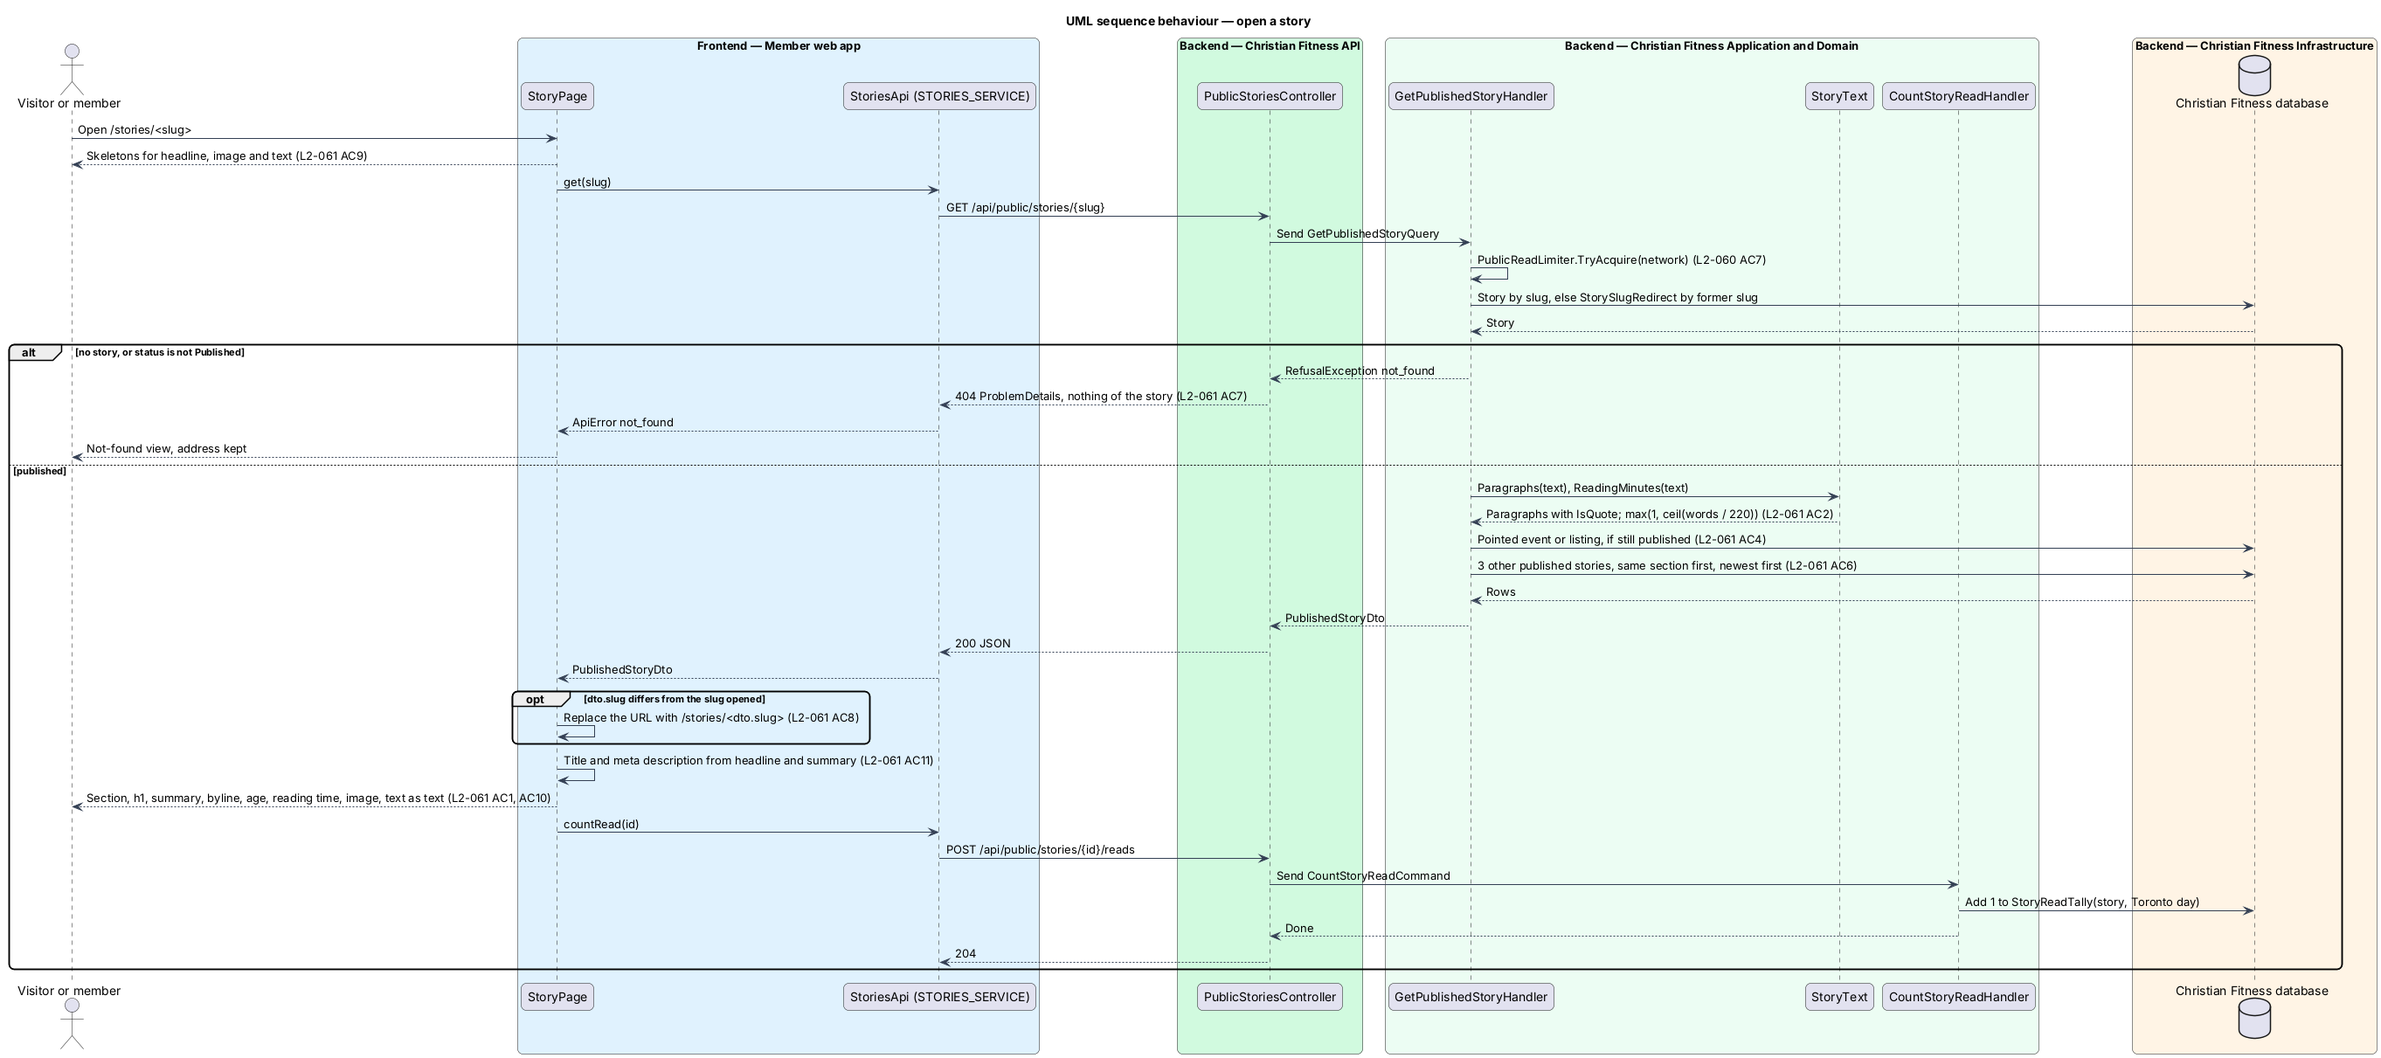
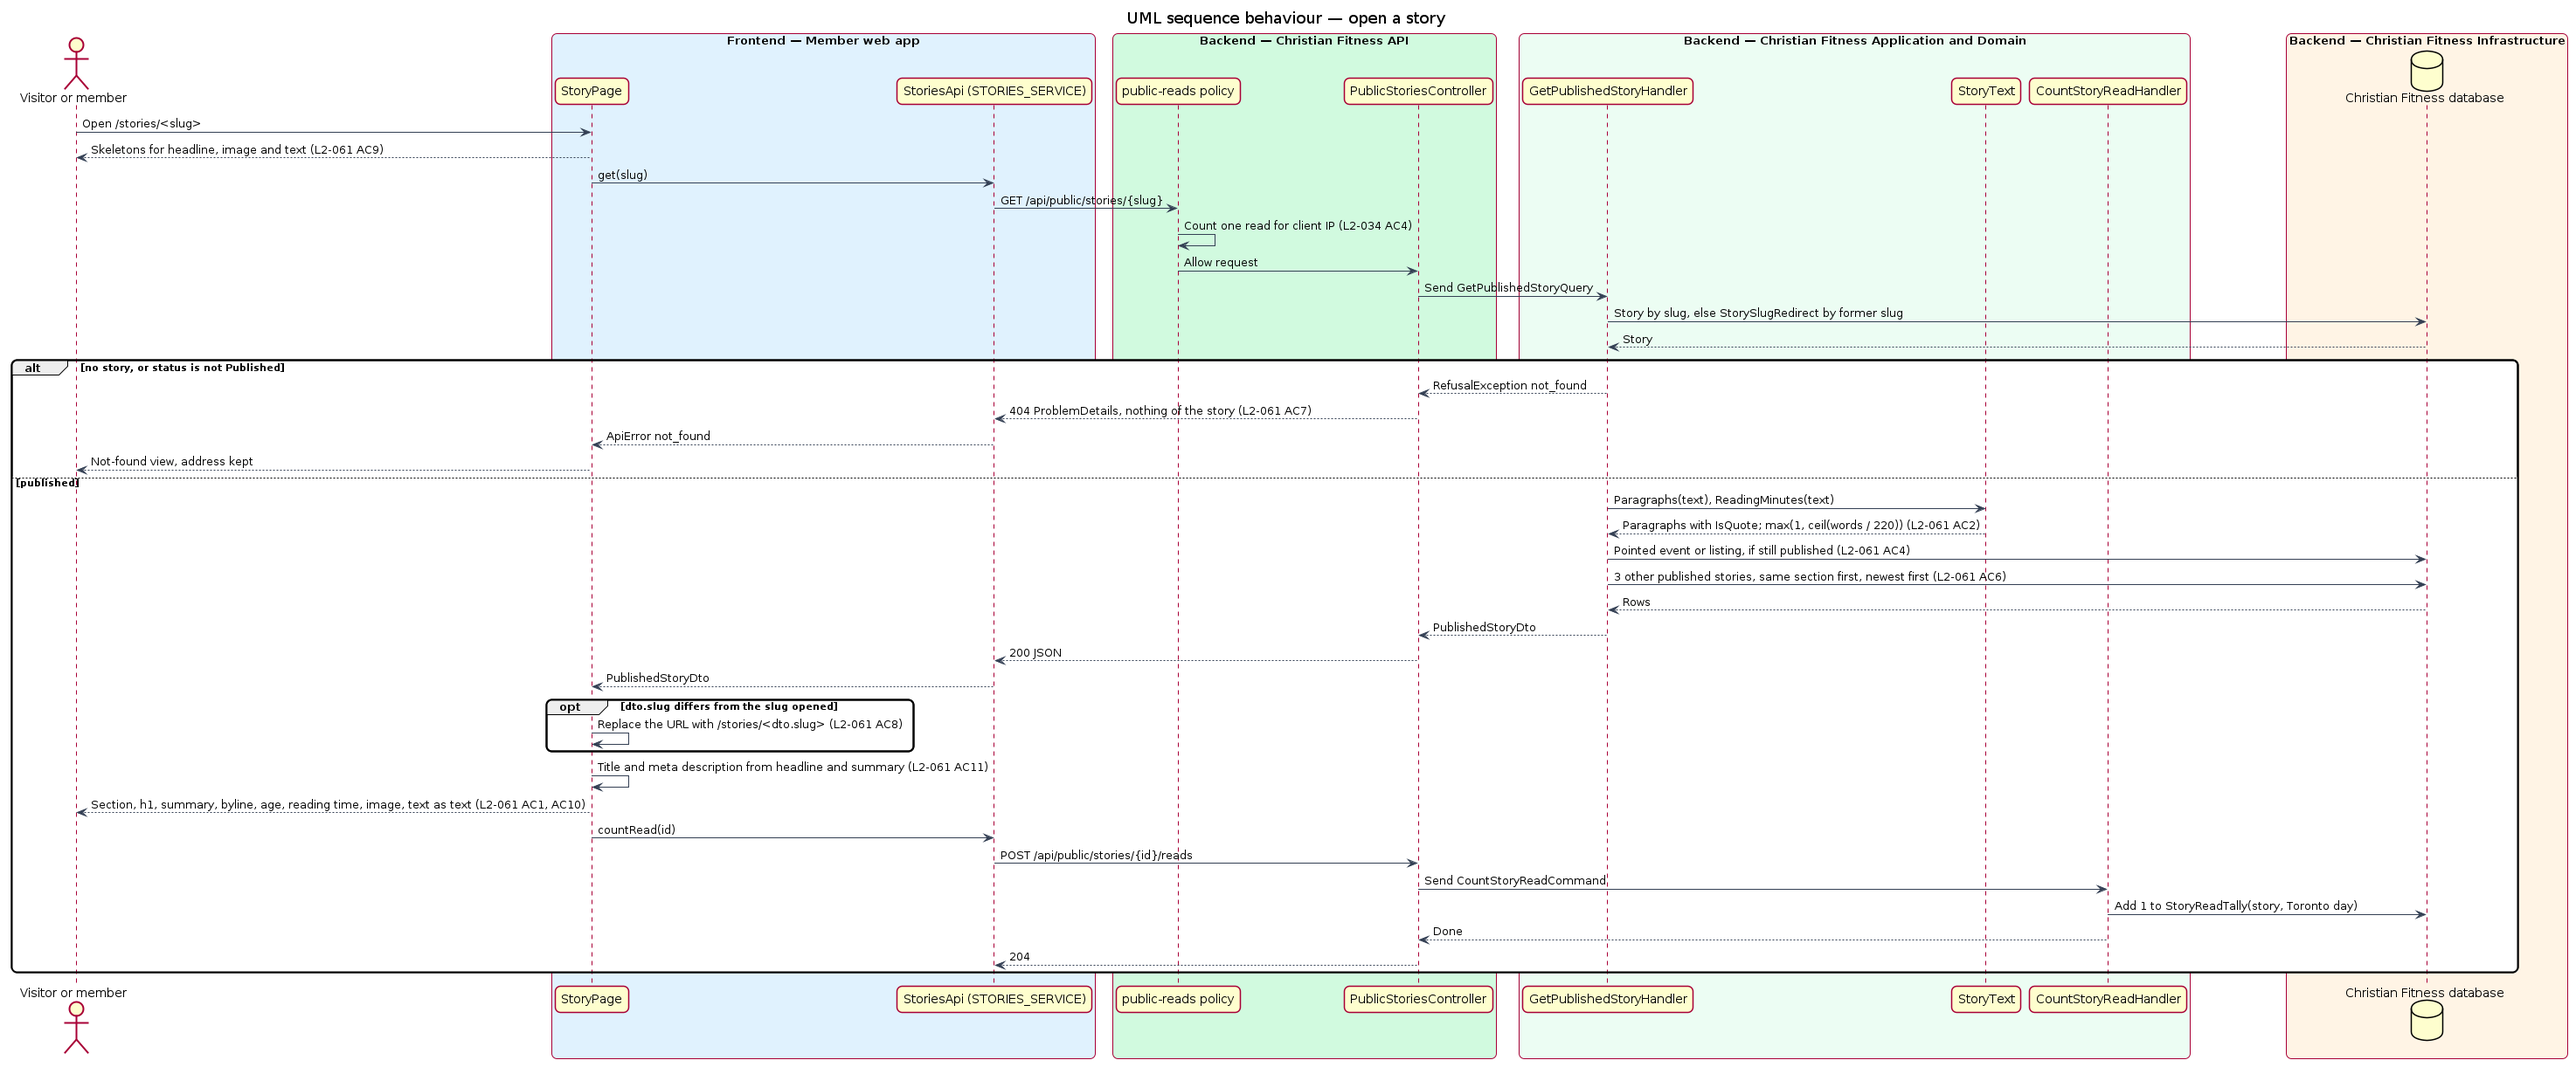
Align story and feed designs with public read decisions

diff --git a/docs/detailed-designs/news/publish-rss-feeds/README.md b/docs/detailed-designs/news/publish-rss-feeds/README.md
@@ -13,8 +13,9 @@ section, and the Subscribe screen lists them with each address to copy or open i
 - **conditional request** — a request that repeats the `ETag` or `Last-Modified` a feed gave, answered 304 with no body while nothing changed
 - **stories a week** — about how many stories a feed carries in a week, shown beside each feed
 
-Feeds are public reads: they need no account, set no cookie, and are rate limited per network
-(`L2-060` AC7). A feed carries nothing that identifies or reaches a member, and never a draft or a
+Feeds are public reads: they need no account, set no cookie, and are rate limited per client IP
+(`L2-034` AC4–5, `L2-060` AC7, ADR 0061). Pros has no section feed; its stories appear in All
+stories. A feed carries nothing that identifies or reaches a member, and never a draft or a
 removed story (`L2-060` AC6). The landing page and Subscribe name the feeds in the document head
 so a reader finds them from the site's address (`L2-060` AC3).
 
@@ -30,8 +31,15 @@ so a reader finds them from the site's address (`L2-060` AC3).
   section slug and the request's `If-None-Match` and `If-Modified-Since` values, and returns an
   **`RssFeedResult`**. It is excluded from `UseAntiforgeryTokens`, which today adds antiforgery
   cookies to every API response, so a feed sets no cookie (`L2-060` AC7).
-- **`GetStoryFeedHandler`** — takes a `PublicReadLimiter` lease (`news/read-story`); with none
-  left it refuses with 429 `rate_limited`. An unknown section is 404 `not_found`. It reads the 30
+- **`public-reads` policy** — the named ASP.NET Core policy limits covered requests per client IP
+  to 120 per minute in a six-segment sliding window. A refusal is 429 ProblemDetails with code
+  `too_many_requests` and `Retry-After` (`L2-034` AC4–5). Requests reaching the API count even
+  when the feed output cache serves them.
+- **Feed output cache** — keeps each rendered feed for 15 minutes. Publishing, unpublishing or
+  editing a published story evicts affected feeds by tag. Cached responses retain the conditional
+  request behaviour; `ETag` and `Last-Modified` are refreshed on the next render. A reader or
+  intermediary may retain a fresh response for up to 900 seconds after API eviction (ADR 0061).
+- **`GetStoryFeedHandler`** — an unknown section is 404 `not_found`. It reads the 30
   newest stories with `Status = Published` (of the section, or all), newest `PublishedAt` first
   (`L2-060` AC1, AC6). Its `ETag` is a strong hash of the items' ids and `EditedAt` values, so an
   edit, a new story or an unpublished one changes it; `Last-Modified` is the newest of those
@@ -82,21 +90,13 @@ so a reader finds them from the site's address (`L2-060` AC3).
 
 ### Open questions
 
-- **Routing the feed paths.** The member app and the API share an origin behind nginx, which
-  proxies only `/api/` today (ADR 0047). The paths `/feed` and `/<section>/feed` need their own
-  proxy rules, or `/events/feed` reaches the SPA's `events/:id` route. The change to
-  `frontend/Dockerfile`'s nginx configuration, and its documentation, belong to the feed slice.
-- **Public read limit.** The limit and window are `<TO SUPPLY>` (see `news/read-story`). A feed
-  reader behind a shared network address polling every 15 minutes needs the limit to leave room
-  for it.
-- **Response caching.** `L2-060` AC2 settles the headers. Whether the API also keeps the rendered
-  feed for 15 minutes (ASP.NET Core output caching) is open; the design renders on each request
-  that is not a 304, from one query of at most 30 rows.
-- **Pros has no feed.** Pros is a section on the landing page and in the editor (`L2-001` AC1), but
-  `L2-060` AC1 names five section feeds; the mock lists the same five. A story in Pros is in the
-  All stories feed only.
 - **Feed addresses.** The mock shows `https://christianfitness.ca/feed`; ADR 0047 serves the member
   app at `www.christian.fitness`. The addresses follow `MemberApp:BaseUrl`, whichever it is.
+
+The future nginx configuration copied by `frontend/Dockerfile` proxies exact `/feed` and
+`~ ^/[a-z0-9-]+/feed$` to the API before the `static.conf` include, its regex locations and the
+SPA fallback (ADR 0061). Unknown section slugs receive the API's 404. Today nginx proxies only
+`/api/`; the change belongs to the feed slice.
 
 ## Requirements
 
@@ -106,7 +106,7 @@ criteria; the text below condenses those criteria faithfully.
 
 | L2 ID    | Refines (L1) | Requirement |
 | -------- | ------------ | ----------- |
-| `L2-060` | `L1-018`     | `/feed` shall answer a valid RSS 2.0 document (`application/rss+xml`) of the 30 newest published stories with title, link, summary, section, author, publication date and a permanent id; `/events/feed`, `/training/feed`, `/nutrition/feed`, `/faith-body/feed` and `/community/feed` shall answer the same for one section. A repeated request with the feed's `ETag` or `Last-Modified` shall be answered 304 with no body while nothing changed, and feeds shall be cacheable for 15 minutes. The landing page and Subscribe shall name the feeds in the document head (`<link rel="alternate" type="application/rss+xml">`). Subscribe's feeds shall show "All stories" first and standing out, and each feed's name, about how many stories a week, its address as text, "Copy URL" and "Open in Feedly", which opens the reader in a new tab with the feed's address. "Copy URL" shall put the address on the clipboard, read "Copied" for about 2 seconds with a `status` message, and select the address when the clipboard refuses. A draft or removed story shall not be in a feed, and a feed shall carry nothing that identifies or reaches a member. A feed shall need no account, set no cookie and be rate limited per network like other public reads. |
+| `L2-060` | `L1-018`     | `/feed` shall answer a valid RSS 2.0 document (`application/rss+xml`) of the 30 newest published stories with title, link, summary, section, author, publication date and a permanent id; `/events/feed`, `/training/feed`, `/nutrition/feed`, `/faith-body/feed` and `/community/feed` shall answer the same for one section. Pros shall have no separate feed. A repeated request with the feed's `ETag` or `Last-Modified` shall be answered 304 with no body while nothing changed. Each rendered feed shall be output-cached for 15 minutes with `Cache-Control: public, max-age=900`, and affected entries shall be evicted by tag on publication, unpublication or edits to published stories. The landing page and Subscribe shall name the feeds in the document head (`<link rel="alternate" type="application/rss+xml">`). Subscribe's feeds shall show "All stories" first and standing out, and each feed's name, about how many stories a week, its address as text, "Copy URL" and "Open in Feedly", which opens the reader in a new tab with the feed's address. "Copy URL" shall put the address on the clipboard, read "Copied" for about 2 seconds with a `status` message, and select the address when the clipboard refuses. A draft or removed story shall not be in a feed, and a feed shall carry nothing that identifies or reaches a member. A feed shall need no account, set no cookie and be rate limited per client IP by `public-reads` (L2-034). |
 
 ## Diagrams
 
@@ -139,7 +139,7 @@ feeds through `FEEDS_SERVICE` and copies addresses through `CLIPBOARD_SERVICE`.
 
 ### Behaviour — read a feed
 
-A feed request is limited per network, answered 304 when its validators still match, and otherwise
+A feed request is limited per client IP, answered 304 when its validators still match, and otherwise
 written as RSS 2.0 with caching headers and no cookie (`L2-060` AC1, AC2, AC6, AC7).
 
 ![Sequence diagram for reading a feed](diagrams/sequence-read-feed.png)

diff --git a/docs/detailed-designs/news/read-story/README.md b/docs/detailed-designs/news/read-story/README.md
@@ -90,9 +90,8 @@ published stories.
   `slug`, `section`, `headline`, `summary`, `byline`, `publishedAt` (UTC), `readingMinutes`,
   `imageUrl`, `paragraphs` (`text`, `isQuote`), `next` (`kind`, `targetId`, `words`) when the
   pointed event or listing is still published, and `keepReading` (three `StoryCardDto` of other
-  published stories, the same section first, then newest first). The request first takes a lease
-  from **`PublicReadLimiter`** (see Open questions); with none left it is refused with 429
-  `rate_limited`.
+  published stories, the same section first, then newest first). The `public-reads` policy applies
+  before the handler and counts opening the story as one read.
 - **`CountStoryReadCommand`** / handler — adds one to the `StoryReadTally` of the story and the
   current Toronto day (`TimeProvider`), only for a Published story; anything else is a silent
   no-op, so the answer reveals nothing. No member, address or cookie is recorded. The tallies feed
@@ -106,9 +105,10 @@ published stories.
 - **`StorySlugRedirect`** — entity written by the authoring slice when a published story's slug
   changes; `FormerSlug` is unique.
 - **`StoryReadTally`** — entity (`StoryId`, `Day`, `Count`), one row per story per Toronto day.
-- **`PublicReadLimiter`** — a subclass of the existing `AddressRateLimiter` (ADR 0012, ADR 0014)
-  keyed by `IClientAddress.PartitionKey`, shared by every anonymous news read (story, newsletter,
-  feeds). Its limit and window are `<TO SUPPLY>`.
+- **`public-reads`** — named ASP.NET Core rate-limiter policy for anonymous story, section,
+  directory and feed reads. It counts by client IP in a sliding window of 120 requests per minute
+  with six segments. A refusal is 429 ProblemDetails with code `too_many_requests` and
+  `Retry-After` (`L2-034` AC4–5, ADR 0061).
 
 Telemetry records the route template (`api/public/stories/{slug}`), never the slug value, the
 query string or the body (`TelemetryRedactionProcessor`; `L2-033` AC2).
@@ -122,9 +122,6 @@ query string or the body (`TelemetryRedactionProcessor`; `L2-033` AC2).
   `<title>` and `<meta>` filled in. Either needs an ADR. The same limit applies to the redirect of
   a former slug (`L2-061` AC8): the design replaces the URL in the browser; a 301 from the server
   needs the same server-side step.
-- **Public read limit.** `L2-060` AC7 says public reads are rate limited "like other public reads
-  (`L2-034`)", but `L2-034` defines no limit for public reads and the code has none. The numbers,
-  and whether a story page counts, need a decision (ADR).
 - **Body format.** `L2-069` AC10 settles `>` for a pull quote and text-only storage. That
   paragraphs are separated by a blank line follows the editor mock; headings, lists, links and
   emphasis inside the text are not specified and are not supported by this design.
@@ -134,8 +131,6 @@ query string or the body (`TelemetryRedactionProcessor`; `L2-033` AC2).
 - **Directory listings.** A story may point to a listing (`L2-055`); no directory listing entity
   exists in the code yet. The pointer stores a kind and an id; the listing's lookup arrives with
   the directory slices.
-- **Pros has no feed.** Stories in Pros show on this page and on the landing page, but `L2-060`
-  AC1 names no Pros feed.
 - **Signed-in members.** The page sits outside the member shell, so a signed-in member sees the
   public masthead with Sign in and Join free. Whether a member sees the member navigation instead
   is not drawn.
@@ -172,8 +167,8 @@ API reads the database and the image store.
 ### Components
 
 `StoryPage` calls `STORIES_SERVICE` and `CLIPBOARD_SERVICE`; `PublicStoriesController` sends
-`GetPublishedStoryQuery` and `CountStoryReadCommand`, whose handlers use `StoryText` and
-`PublicReadLimiter`.
+`GetPublishedStoryQuery` and `CountStoryReadCommand`. The `public-reads` policy limits story
+requests before the handler uses `StoryText`.
 
 ![C4 component view for reading a story](diagrams/c4-component.png)
 

diff --git a/docs/adr/0061-public-reads-and-feed-delivery.md b/docs/adr/0061-public-reads-and-feed-delivery.md
@@ -19,9 +19,10 @@ The member app and API share an origin; nginx currently proxies `/api/` only, so
   ProblemDetails with code `too_many_requests` and a `Retry-After` header. The API uses the client
   address forwarded by the trusted proxy, not an arbitrary client-supplied header (ADR 0047).
 - **Feed routes.** The future nginx configuration copied by `frontend/Dockerfile` proxies exact
-  `/feed` and `~ ^/[a-z0-9-]+/feed$` to the API ahead of the SPA fallback. The API accepts the
-  five section slugs in `L2-060` AC1; an unknown section returns 404, not the SPA. The proxy
-  preserves the path and forwards the client address and scheme as it does for `/api/`.
+  `/feed` and `~ ^/[a-z0-9-]+/feed$` to the API in the member server, before the
+  `static.conf` include and its regex locations and SPA fallback. The API accepts the five section
+  slugs in `L2-060` AC1; an unknown section returns 404, not the SPA. The proxy preserves the
+  path and forwards the client address and scheme as it does for `/api/`.
 - **Feed cache.** The API output-caches each rendered feed for 15 minutes and sends
   `Cache-Control: public, max-age=900`. Publishing or unpublishing a story evicts the affected
   feed entries by tag; editing a published story also evicts them so its content and validators

diff --git a/docs/operations/deployment.md b/docs/operations/deployment.md
@@ -13,8 +13,9 @@ How Christian Fitness is released and where it runs (ADR 0047). Every setting is
 
 ADR 0061 specifies a future change to the nginx configuration copied by `frontend/Dockerfile`
 from `frontend/deploy/`. It is not deployed yet. The member app's server will proxy exact
-`/feed` and regex `~ ^/[a-z0-9-]+/feed$` to the API before the SPA fallback, preserving the
-request path and forwarding the client address and scheme as for `/api/`. Thus `/events/feed`
+`/feed` and regex `~ ^/[a-z0-9-]+/feed$` to the API before the `static.conf` include, its regex
+locations and the SPA fallback, preserving the request path and forwarding the client address
+and scheme as for `/api/`. Thus `/events/feed`
 reaches the API, not the SPA's `events/:id`; an unknown section receives the API's 404.
 
 The API will output-cache each rendered feed for 15 minutes, evict affected entries by tag on
